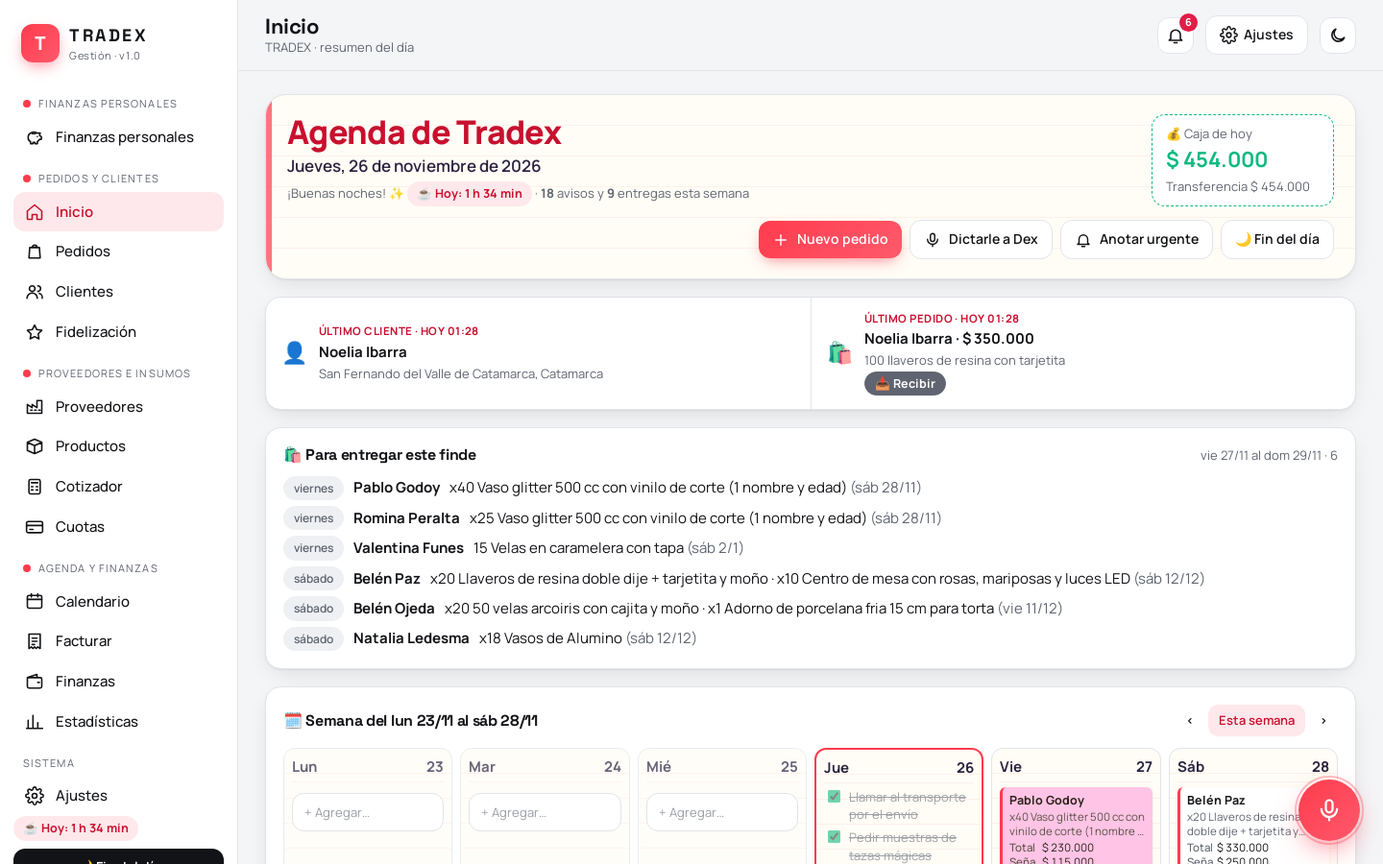
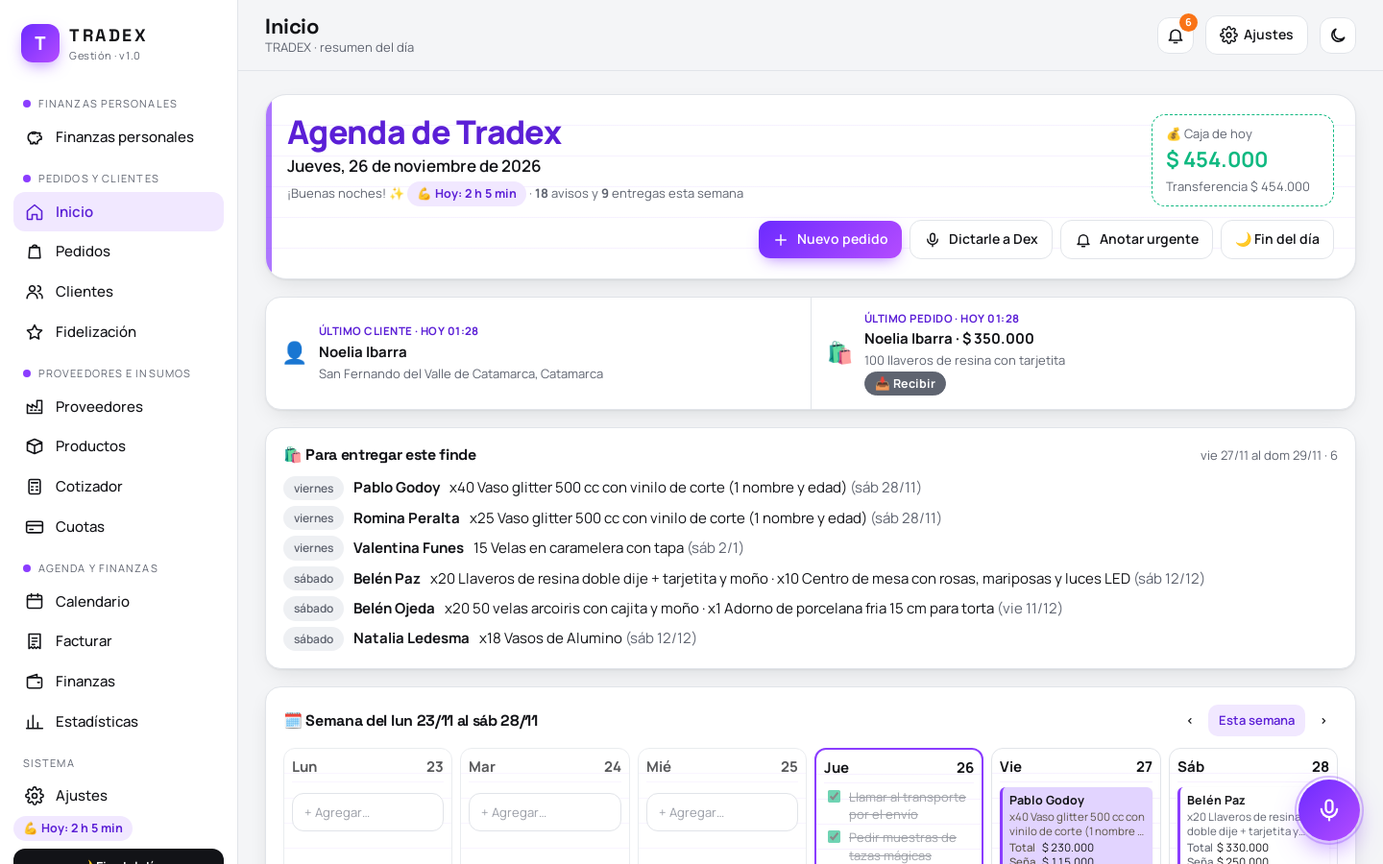
style(marca): degradado violeta | morado | sin rojo
- Cambia el acento por un degradado violeta a morado sobre grafito
- Pasa los avisos urgentes a naranja y quita el fondo crema de la agenda
- Actualiza ícono, color del navegador, comprobante y encabezado del asistente
- Rehace las capturas y la sección de marca del README

diff --git a/public/css/styles.css b/public/css/styles.css
@@ -1,6 +1,6 @@
 /* ==========================================================
    TRADEX 1.0 — estilos
-   Marca: grafito + rojo señal (#FF3B4E) como único acento.
+   Marca: grafito + degradado violeta → morado (#6C2BFF → #B44CFF).
    Modo claro / oscuro. Las "paletas" por apartado comparten el mismo acento.
    ========================================================== */
 
@@ -22,7 +22,7 @@
   --border: #e1e4e9;
 
   /* semáforo de urgencia */
-  --u-red: #e11d48;
+  --u-red: #f97316; /* urgente en naranja: la marca no usa rojo */
   --u-violet: #8b5cf6;
   --u-blue: #3b82f6;
   --u-green: #16a34a;
@@ -30,12 +30,12 @@
   --warn: #f59e0b;
   --ok: #10b981;
 
-  /* acento único: rojo señal */
-  --accent: #ff3b4e;
-  --accent-2: #ff7a87;
-  --accent-ink: #c8102e;
-  --accent-soft: #ffe8eb;
-  --grad: linear-gradient(135deg, #ff3b4e 0%, #ff5a6b 100%);
+  /* acento: degradado violeta → morado */
+  --accent: #8b3dff;
+  --accent-2: #c08cff;
+  --accent-ink: #5b1fd6;
+  --accent-soft: #f1e8ff;
+  --grad: linear-gradient(135deg, #6c2bff 0%, #b44cff 100%);
 }
 
 /* modo oscuro: grafito */
@@ -279,7 +279,7 @@ tbody tr:hover { background: var(--surface-2); }
 .cal .num { font-weight: 700; font-size: 13px; display: flex; justify-content: space-between; align-items: center; }
 .cal .ev { font-size: 11px; padding: 2px 6px; border-radius: 6px; white-space: nowrap; overflow: hidden; text-overflow: ellipsis; font-weight: 600; }
 .ev.t-delivery { background: color-mix(in srgb, var(--u-violet) 18%, transparent); color: var(--u-violet); }
-.ev.t-event { background: color-mix(in srgb, #ff3b4e 16%, transparent); color: #c8102e; }
+.ev.t-event { background: color-mix(in srgb, #8b3dff 16%, transparent); color: #5b1fd6; }
 .ev.t-order { background: color-mix(in srgb, var(--u-red) 14%, transparent); color: var(--u-red); }
 .ev.t-receive { background: color-mix(in srgb, #0891b2 16%, transparent); color: #0891b2; }
 .ev.t-task { background: color-mix(in srgb, var(--u-green) 16%, transparent); color: var(--u-green); }
@@ -346,10 +346,10 @@ tbody tr:hover { background: var(--surface-2); }
 .fab {
   position: fixed; right: 24px; bottom: 24px; z-index: 40; width: 64px; height: 64px; border-radius: 50%;
   border: 0; background: var(--grad); color: #fff; cursor: pointer;
-  box-shadow: 0 12px 30px -8px rgb(255 59 78 / .7); display: grid; place-items: center;
+  box-shadow: 0 12px 30px -8px rgb(139 61 255 / .7); display: grid; place-items: center;
 }
 .fab svg { width: 28px; height: 28px; }
-.fab::before { content: ""; position: absolute; inset: -6px; border-radius: 50%; border: 2px solid rgb(255 59 78 / .4); animation: ring 2.4s infinite; }
+.fab::before { content: ""; position: absolute; inset: -6px; border-radius: 50%; border: 2px solid rgb(139 61 255 / .4); animation: ring 2.4s infinite; }
 @keyframes ring { 0% { transform: scale(.9); opacity: 1; } 100% { transform: scale(1.25); opacity: 0; } }
 
 .assistant {
@@ -357,13 +357,13 @@ tbody tr:hover { background: var(--surface-2); }
   background: var(--surface); border: 1px solid var(--border); border-radius: 24px; box-shadow: var(--shadow-lg);
   z-index: 50; display: flex; flex-direction: column; overflow: hidden; animation: pop .2s;
 }
-.as-head { background: #121317; color: #fff; padding: 14px 16px; display: flex; align-items: center; gap: 10px; }
+.as-head { background: var(--grad); color: #fff; padding: 14px 16px; display: flex; align-items: center; gap: 10px; }
 .as-head .av { width: 38px; height: 38px; border-radius: 50%; background: rgb(255 255 255 / .2); display: grid; place-items: center; font-weight: 800; }
 .as-head .btn { background: rgb(255 255 255 / .16); color: #fff; border: 0; }
 .as-msgs { flex: 1; overflow-y: auto; padding: 14px; display: flex; flex-direction: column; gap: 10px; }
 .msg { max-width: 86%; padding: 10px 13px; border-radius: 16px; font-size: 14px; white-space: pre-wrap; }
 .msg.bot { background: var(--surface-2); border-bottom-left-radius: 4px; }
-.msg.me { background: #ff3b4e; color: #fff; align-self: flex-end; border-bottom-right-radius: 4px; }
+.msg.me { background: #8b3dff; color: #fff; align-self: flex-end; border-bottom-right-radius: 4px; }
 .msg.typing { color: var(--muted); font-style: italic; }
 .as-draft { border-top: 1px solid var(--border); background: var(--surface-2); padding: 10px 14px; font-size: 13px; max-height: 170px; overflow-y: auto; }
 .as-draft .kv { display: grid; grid-template-columns: 110px 1fr; gap: 2px 8px; }
@@ -374,7 +374,7 @@ tbody tr:hover { background: var(--surface-2); }
 .as-input input { border-radius: 99px; }
 .mic { width: 46px; height: 46px; border-radius: 50%; border: 0; background: var(--grad); color: #fff; cursor: pointer; display: grid; place-items: center; flex: none; }
 .mic svg { width: 22px; height: 22px; }
-.mic.rec { background: var(--u-red); animation: pulse 1s infinite; }
+.mic.rec { background: #5b1fd6; animation: pulse 1s infinite; }
 @keyframes pulse { 50% { box-shadow: 0 0 0 10px rgb(225 29 72 / .15); } }
 .suggest { display: flex; gap: 6px; flex-wrap: wrap; padding: 0 14px 10px; }
 .suggest button { font-size: 12px; border: 1px solid var(--border); background: var(--surface); border-radius: 99px; padding: 5px 10px; cursor: pointer; }
@@ -566,7 +566,7 @@ input:focus, select:focus, textarea:focus { border-color: var(--accent); box-sha
 .hero .work-chip { background: rgb(255 255 255 / .2); color: #fff; }
 .eod-btn { background: #121317; color: #fff; border: 0; }
 .eod-btn:hover { filter: brightness(1.1); background: #121317; }
-.eod-hero { display: flex; gap: 16px; align-items: center; background: linear-gradient(135deg, #121317 55%, #3a1018); color: #fff; border-radius: 18px; padding: 18px 20px; }
+.eod-hero { display: flex; gap: 16px; align-items: center; background: linear-gradient(135deg, #121317 55%, #2a1257); color: #fff; border-radius: 18px; padding: 18px 20px; }
 .eod-emoji { font-size: 48px; }
 .eod-hours { font-size: 24px; font-weight: 800; }
 .eod-status { border-radius: 12px; padding: 10px 12px; font-weight: 600; font-size: 14px; }
@@ -616,7 +616,7 @@ label.field:has(#c-hint) { position: relative; }
 /* 🔔 campanita */
 .bell-top { position: relative; }
 .bell-top svg { width: 20px; height: 20px; }
-.bell-top .count { position: absolute; top: -5px; right: -5px; min-width: 19px; height: 19px; padding: 0 5px; border-radius: 99px; background: #e11d48; color: #fff; font-size: 11px; font-weight: 700; display: grid; place-items: center; }
+.bell-top .count { position: absolute; top: -5px; right: -5px; min-width: 19px; height: 19px; padding: 0 5px; border-radius: 99px; background: var(--u-red); color: #fff; font-size: 11px; font-weight: 700; display: grid; place-items: center; }
 .bell-panel { position: fixed; top: 64px; right: 16px; z-index: 60; width: min(420px, calc(100vw - 32px)); max-height: calc(100vh - 90px); overflow: auto; background: var(--surface); color: var(--text); border: 1px solid var(--border); border-radius: 16px; box-shadow: 0 18px 50px rgba(0,0,0,.22); }
 .bell-head { display: flex; justify-content: space-between; align-items: baseline; gap: 8px; padding: 14px 14px 8px; }
 .bell-list { display: grid; }
@@ -627,7 +627,7 @@ label.field:has(#c-hint) { position: relative; }
 .bell-item .t { font-weight: 600; }
 .bell-item .b, .bell-item .bi-hint { font-size: 12.5px; color: var(--muted); }
 .bell-item .bi-hint { font-style: italic; }
-.bell-item.urgent { background: color-mix(in srgb, #e11d48 7%, transparent); }
+.bell-item.urgent { background: color-mix(in srgb, var(--u-red) 7%, transparent); }
 .bell-item.done .t { text-decoration: line-through; color: var(--muted); }
 .bell-item.done { opacity: .7; }
 .bell-foot { display: block; text-align: center; padding: 10px; border-top: 1px solid var(--border); font-size: 13px; font-weight: 600; color: var(--accent); text-decoration: none; }
@@ -749,8 +749,8 @@ label.field:has(#c-hint) { position: relative; }
 div.bell-item { cursor: default; }
 
 /* ---------- Inicio: Agenda de Tradex (estilo agenda de papel) ---------- */
-:root { --paper: #fffdf6; --paper-line: rgb(255 59 78 / .07); --paper-ink: #2b2340; --hl-today: #fff27a; --hl-tomorrow: #ffc4e6; --hl-late: #ffcf99; --hl-ink: #2a2116; }
-[data-mode="dark"] { --paper: #221b2f; --paper-line: rgb(255 255 255 / .05); --paper-ink: #f1ecff; --hl-today: rgb(255 238 88 / .85); --hl-tomorrow: rgb(255 170 220 / .85); --hl-late: rgb(255 190 120 / .85); }
+:root { --paper: #ffffff; --paper-line: rgb(139 61 255 / .07); --paper-ink: #121317; --hl-today: #fff27a; --hl-tomorrow: #e2d4ff; --hl-late: #ffcf99; --hl-ink: #121317; }
+[data-mode="dark"] { --paper: #1a1c22; --paper-line: rgb(255 255 255 / .05); --paper-ink: #f1ecff; --hl-today: rgb(255 238 88 / .85); --hl-tomorrow: rgb(196 160 255 / .85); --hl-late: rgb(255 190 120 / .85); }
 .agenda-head { background: var(--paper); color: var(--paper-ink); border: 1px solid var(--border); border-radius: 22px; padding: 20px 22px; box-shadow: var(--shadow);
   background-image: repeating-linear-gradient(to bottom, transparent 0 31px, var(--paper-line) 31px 32px); position: relative; overflow: hidden; }
 .agenda-head::before { content: ""; position: absolute; left: 0; top: 0; bottom: 0; width: 6px; background: var(--accent); opacity: .7; }
@@ -800,7 +800,7 @@ div.bell-item { cursor: default; }
 .postit:nth-child(even) { transform: rotate(.7deg); }
 .postit .small, .postit .btn, .postit textarea { font-family: var(--font); font-size: 12px; }
 .postit.yellow { background: #fff3a6; } .postit.pink { background: #ffd1e8; } .postit.green { background: #cdf3d5; } .postit.blue { background: #cfe6ff; }
-.postit.problem { background: #ffe08a; border-top: 4px solid #e11d48; }
+.postit.problem { background: #ffe08a; border-top: 4px solid var(--u-red); }
 .postit .btn { color: #2b2416; }
 .postit .pi-text { outline: none; white-space: pre-wrap; }
 .postit .pi-x { position: absolute; top: 4px; right: 6px; border: 0; background: transparent; cursor: pointer; color: #6b5d3d; font-size: 13px; }
@@ -810,7 +810,7 @@ div.bell-item { cursor: default; }
 .pi-color.yellow { background: #fff3a6; } .pi-color.pink { background: #ffd1e8; } .pi-color.green { background: #cdf3d5; } .pi-color.blue { background: #cfe6ff; }
 .pi-color.on { border-color: var(--accent); }
 /* post-it chico dentro de un aviso o del detalle del pedido */
-.postit.sm { min-height: 0; font-size: 13px; padding: 8px 10px; background: #fff3a6; transform: none; border-top: 3px solid #e11d48; margin: 4px 0; }
+.postit.sm { min-height: 0; font-size: 13px; padding: 8px 10px; background: #fff3a6; transform: none; border-top: 3px solid var(--u-red); margin: 4px 0; }
 .postit.edit { min-height: 0; background: #fff3a6; transform: none; width: 100%; padding: 8px; }
 .postit.edit textarea { width: 100%; border: 0; background: transparent; color: #2b2416; font-size: 13px; }
 .btn.warn { color: #b45309; }
@@ -832,7 +832,7 @@ input.padd:focus { border-bottom-color: var(--accent); }
 .paper-card { background: var(--paper); color: var(--paper-ink); background-image: repeating-linear-gradient(to bottom, transparent 0 31px, var(--paper-line) 31px 32px); border-left: 6px solid color-mix(in srgb, var(--accent) 70%, transparent); }
 .paper-card .pc-date { font-size: 14px; font-weight: 600; color: var(--muted); margin-top: 2px; }
 .paper-card .bell-item { background: transparent; }
-.paper-card .bell-item.urgent { background: color-mix(in srgb, #e11d48 6%, transparent); }
+.paper-card .bell-item.urgent { background: color-mix(in srgb, var(--u-red) 6%, transparent); }
 .pc-sub { display: flex; justify-content: space-between; align-items: baseline; margin: 16px 0 8px; padding-top: 10px; border-top: 1.5px dashed var(--border); }
 .day-agenda .bell-item { padding: 10px 0; }
 .day-agenda .bell-item:first-child { border-top: 0; }
@@ -945,8 +945,8 @@ input.padd:focus { border-bottom-color: var(--accent); }
 .pf-legend i.due { background: color-mix(in srgb, var(--warn) 50%, transparent); }
 .pf-legend i.paidc { background: color-mix(in srgb, var(--ok) 50%, transparent); }
 .pf-legend i.late { background: color-mix(in srgb, var(--u-red) 50%, transparent); }
-.pf-chart { position: relative; --pf-inc: #059669; --pf-out: #e11d48; }
-[data-mode="dark"] .pf-chart, [data-mode="dark"] .pf-legend { --pf-inc: #34d399; --pf-out: #fb7185; }
+.pf-chart { position: relative; --pf-inc: #059669; --pf-out: #f97316; }
+[data-mode="dark"] .pf-chart, [data-mode="dark"] .pf-legend { --pf-inc: #34d399; --pf-out: #fb923c; }
 .pf-chart svg { width: 100%; height: auto; display: block; overflow: visible; }
 .pf-grid { stroke: var(--border); stroke-width: 1; }
 .pf-grid.base { stroke: var(--muted); stroke-opacity: .5; }
@@ -963,7 +963,7 @@ input.padd:focus { border-bottom-color: var(--accent); }
 .pf-hit { fill: transparent; cursor: crosshair; }
 .pf-tip { position: absolute; top: 0; transform: translateX(-50%); background: var(--surface); border: 1px solid var(--border); border-radius: 12px; box-shadow: var(--shadow-lg); padding: 8px 12px; font-size: 13px; pointer-events: none; white-space: nowrap; display: grid; gap: 2px; z-index: 3; }
 .pf-tip[hidden] { display: none; }
-.pf-legend { --pf-inc: #059669; --pf-out: #e11d48; }
+.pf-legend { --pf-inc: #059669; --pf-out: #f97316; }
 i.pf-sw, .pf-legend i.pf-sw { display: inline-block; width: 18px; height: 0; border-radius: 0; background: none; border-top: 2px solid var(--pf-inc); vertical-align: middle; margin-right: 4px; }
 i.pf-sw.out, .pf-legend i.pf-sw.out { border-top: 2px dashed var(--pf-out); }
 .pf-quick { display: flex; flex-direction: column; gap: 10px; }
@@ -1062,10 +1062,10 @@ i.pf-sw.out, .pf-legend i.pf-sw.out { border-top: 2px dashed var(--pf-out); }
 .vip-dot span { font-size: 13px; font-weight: 600; }
 .vip-dot small { font-size: 11px; font-weight: 800; line-height: 1.1; color: #7a1f45; padding: 2px; }
 .vip-dot.prize { border-color: #d4a017; }
-.vip-dot.on { background: radial-gradient(circle at 35% 30%, #ff7a87, #ff3b4e); border-color: #ff3b4e; color: #fff; }
+.vip-dot.on { background: radial-gradient(circle at 35% 30%, #c08cff, #8b3dff); border-color: #8b3dff; color: #fff; }
 .vip-dot.on small { color: #fff; }
 .vip-foot { margin-top: 10px; font-size: 12.5px; }
-.loyal-banner { margin-top: 10px; padding: 10px 12px; border-radius: 12px; background: color-mix(in srgb, #ff3b4e 12%, var(--surface)); border: 1px dashed #db2777; }
+.loyal-banner { margin-top: 10px; padding: 10px 12px; border-radius: 12px; background: color-mix(in srgb, #8b3dff 12%, var(--surface)); border: 1px dashed #db2777; }
 .loyal-banner.on { border-style: solid; background: color-mix(in srgb, var(--ok) 12%, var(--surface)); border-color: var(--ok); }
 .loyal-row { padding: 6px 0; border-bottom: 1px solid var(--border); }
 .loyal-row:last-child { border-bottom: 0; }

diff --git a/public/js/views/personal.js b/public/js/views/personal.js
@@ -210,7 +210,7 @@ function resumen(el, again) {
 
   el.innerHTML = `<div class="stack">
     <div class="grid g4">
-      <div class="card stat"><span class="label">💵 Ingresos</span><span class="value" style="color:var(--ok)">${money(m.income)}</span><span class="hint">❤ ganancia de Tradex</span></div>
+      <div class="card stat"><span class="label">💵 Ingresos</span><span class="value" style="color:var(--ok)">${money(m.income)}</span><span class="hint">💜 ganancia de Tradex</span></div>
       <div class="card stat"><span class="label">📌 Gastos fijos</span><span class="value">${money(m.fixedTotal)}</span><span class="hint">pagaste ${money(m.fixedPaidTotal)} · faltan ${pendingFixed.length}</span></div>
       <div class="card stat"><span class="label">🧾 Gastos del día</span><span class="value">${money(m.varTotal)}</span><span class="hint">${m.vars.length} gastos ${deltaTxt(varDelta)}</span></div>
       <div class="card stat"><span class="label">${m.income ? "⚖ Te queda" : "💸 Total gastado"}</span><span class="value" style="color:${m.income && m.income - m.out < 0 ? "var(--u-red)" : "inherit"}">${money(m.income ? m.income - m.out : m.out)}</span><span class="hint">${m.income ? `gastaste ${money(m.out)}` : ""} ${deltaTxt(outDelta)}</span></div>
@@ -374,7 +374,7 @@ function bindChart(el, hist) {
       cross.setAttribute("x1", x(i)); cross.setAttribute("x2", x(i)); cross.style.display = "";
       tip.innerHTML = `<b style="text-transform:capitalize">${mLabel(h.k)}</b>
         <div><i class="pf-sw inc"></i>Ingresos <b>${money(h.income)}</b></div>
-        <div class="muted" style="padding-left:22px">❤ Tradex ${money(h.incomeOrders)}${h.incomeOther ? ` · otros ${money(h.incomeOther)}` : ""}</div>
+        <div class="muted" style="padding-left:22px">💜 Tradex ${money(h.incomeOrders)}${h.incomeOther ? ` · otros ${money(h.incomeOther)}` : ""}</div>
         <div><i class="pf-sw out"></i>Egresos <b>${money(h.out)}</b></div>
         <div class="muted" style="padding-left:22px">fijos ${money(h.fixedTotal)} · del día ${money(h.varTotal)}</div>
         <div style="border-top:1px solid var(--border);margin-top:4px;padding-top:4px">Balance <b style="color:${h.income - h.out < 0 ? "var(--u-red)" : "var(--ok)"}">${money(h.income - h.out)}</b></div>`;
@@ -684,10 +684,10 @@ function ingresos(el, again) {
   const tOrders = sum(cobros, (c) => c.amount), tGross = sum(cobros, (c) => c.gross);
   el.innerHTML = `<div class="stack">
     <div class="grid g2">
-      <div class="card stat"><span class="label">❤ Ganancia de pedidos</span><span class="value">${money(tOrders)}</span><span class="hint">cobraste ${money(tGross)} − costos de proveedor ${money(tGross - tOrders)}</span></div>
+      <div class="card stat"><span class="label">💜 Ganancia de pedidos</span><span class="value">${money(tOrders)}</span><span class="hint">cobraste ${money(tGross)} − costos de proveedor ${money(tGross - tOrders)}</span></div>
       <div class="card stat"><span class="label">Te quedó neto en ${mLabel(month)}</span><span class="value" style="color:var(--ok)">${money(tOrders)}</span></div>
     </div>
-    <div class="card"><h3>❤ Ganancia de pedidos de Tradex <span class="small muted" style="font-weight:500">· de cada seña o saldo, lo que te queda después de pagar al proveedor</span></h3>
+    <div class="card"><h3>💜 Ganancia de pedidos de Tradex <span class="small muted" style="font-weight:500">· de cada seña o saldo, lo que te queda después de pagar al proveedor</span></h3>
       ${cobros.some((c) => c.noCost) ? `<p class="small" style="margin-top:0">⚠ Hay pedidos sin costo cargado: ahí la ganancia figura igual a lo cobrado. Cargá el costo en el pedido para que sea real.</p>` : ""}
       ${cobros.length ? `<div class="table-wrap"><table><thead><tr><th>Fecha</th><th>Cliente</th><th>Pedido</th><th>Qué</th><th>Medio</th><th class="right">Cobrado</th><th class="right">Ganancia</th><th></th></tr></thead><tbody>
         ${cobros.map((c) => `<tr><td class="nowrap">${fmtDate(c.date)}</td><td><b>${esc(c.name)}</b></td><td class="small">${esc(itemsText(c.o)) || "—"}</td><td><span class="chip ${c.label === "Seña" ? "accent" : "ok"}">${c.label}</span></td><td class="small">${esc(c.method || "—")}</td><td class="right muted">${money(c.gross)}</td><td class="right"><b style="color:var(--ok)">${money(c.amount)}</b>${c.noCost ? ` <span title="Pedido sin costo cargado">⚠</span>` : ""}</td><td><a class="btn ghost sm" href="#/pedidos?id=${c.o.id}">Ver</a></td></tr>`).join("")}

diff --git a/public/js/receipt.js b/public/js/receipt.js
@@ -17,7 +17,7 @@ export function printHTML(title, inner) {
     .head { background: #121317; color: #fff; border-radius: 18px; padding: 22px 26px; display: flex; justify-content: space-between; align-items: center; }
     .logo { font-size: 30px; font-weight: 800; letter-spacing: .18em; }
     .head small { opacity: .9; display: block; }
-    h2 { font-size: 15px; color: #c8102e; margin: 22px 0 8px; text-transform: uppercase; letter-spacing: .08em; }
+    h2 { font-size: 15px; color: #5b1fd6; margin: 22px 0 8px; text-transform: uppercase; letter-spacing: .08em; }
     .grid { display: grid; grid-template-columns: 1fr 1fr; gap: 6px 24px; font-size: 14px; }
     .grid b { color: #6c6483; font-weight: 600; }
     table { width: 100%; border-collapse: collapse; font-size: 14px; }
@@ -26,7 +26,7 @@ export function printHTML(title, inner) {
     .r { text-align: right; }
     .totals { margin-left: auto; width: 300px; margin-top: 14px; font-size: 15px; }
     .totals div { display: flex; justify-content: space-between; padding: 5px 0; }
-    .totals .big { font-size: 20px; font-weight: 800; color: #c8102e; border-top: 2px dashed #ffc2c9; margin-top: 6px; padding-top: 10px; }
+    .totals .big { font-size: 20px; font-weight: 800; color: #5b1fd6; border-top: 2px dashed #d9c4ff; margin-top: 6px; padding-top: 10px; }
     .totals .saldo { background: #fdf2f8; color: #be185d; border-radius: 10px; padding: 8px 10px; font-weight: 800; }
     .dates { display: flex; gap: 12px; margin-top: 18px; }
     .dates div { flex: 1; background: #f6f4fb; border-radius: 14px; padding: 12px 14px; }
@@ -74,6 +74,6 @@ export function printReceipt(o) {
       <div><b>Entrega aproximada</b><span>${o.deadline ? fmtDate(o.deadline, { long: true }) : "—"}</span></div>
     </div>
     ${o.notes ? `<div class="note"><b>Notas:</b> ${esc(o.notes)}</div>` : ""}
-    <div class="foot">¡Gracias por elegirnos! ❤ · ${esc(s.businessName || "TRADEX")}</div>`;
+    <div class="foot">¡Gracias por elegirnos! 💜 · ${esc(s.businessName || "TRADEX")}</div>`;
   printHTML(`Comprobante ${o.client?.name || ""}`, html);
 }

diff --git a/public/js/assistant.js b/public/js/assistant.js
@@ -71,7 +71,7 @@ export function openAssistant(listen = false) {
   $("#as-tts").onclick = () => { S.tts = !S.tts; localStorage.setItem("v-tts", S.tts ? "1" : "0"); $("#as-tts").style.opacity = S.tts ? 1 : 0.5; if (!S.tts) speechSynthesis?.cancel(); };
   $("#as-form").onsubmit = (e) => { e.preventDefault(); const v = $("#as-text").value.trim(); if (v) { $("#as-text").value = ""; S.handsFree = false; send(v); } };
   if ($("#as-mic")) $("#as-mic").onclick = () => { if (S.listening) { S.handsFree = false; stopListening(); } else { S.handsFree = true; startListening(); } };
-  if (!S.messages.length) botSay(`¡Hola! Soy Dex ❤ Contame qué pasó: “Sofía me compró 40 tazas para el sábado 20”, “Insumos Sur vende ecovasos a 1300” o “pasame las 3 botellas más baratas”.`, { silent: true });
+  if (!S.messages.length) botSay(`¡Hola! Soy Dex 💜 Contame qué pasó: “Sofía me compró 40 tazas para el sábado 20”, “Insumos Sur vende ecovasos a 1300” o “pasame las 3 botellas más baratas”.`, { silent: true });
   else drawMessages();
   drawDraft();
   drawSuggestions();
@@ -132,7 +132,7 @@ function botSay(text, { html = "", silent = false } = {}) {
 function speak(text) {
   if (!S.tts || !("speechSynthesis" in window)) { if (S.handsFree && S.intent !== "none") setTimeout(startListening, 300); return; }
   speechSynthesis.cancel();
-  const u = new SpeechSynthesisUtterance(text.replace(/[❤✨🛍📌🏭✅⚠🔎]/gu, ""));
+  const u = new SpeechSynthesisUtterance(text.replace(/[💜✨🛍📌🏭✅⚠🔎]/gu, ""));
   u.lang = "es-AR";
   const voices = speechSynthesis.getVoices();
   u.voice = voices.find((v) => v.lang === "es-AR") || voices.find((v) => v.lang === "es-US") || voices.find((v) => v.lang?.startsWith("es")) || null;

diff --git a/public/js/app.js b/public/js/app.js
@@ -39,7 +39,7 @@ const ROUTES = [
   { path: "estadisticas", label: "Estadísticas", icon: "chart", palette: "aqua", group: "Agenda y finanzas", view: stats },
   { path: "ajustes", label: "Ajustes", icon: "cog", palette: "violet", group: null, view: config },
 ];
-const GROUP_COLOR = { "Pedidos y clientes": "#ff3b4e", "Proveedores e insumos": "#ff3b4e", "Agenda y finanzas": "#ff3b4e", "Finanzas personales": "#ff3b4e" };
+const GROUP_COLOR = { "Pedidos y clientes": "#8b3dff", "Proveedores e insumos": "#8b3dff", "Agenda y finanzas": "#8b3dff", "Finanzas personales": "#8b3dff" };
 const MOBILE = ["", "pedidos", "productos", "cuotas", "calendario"];
 
 let current = null;
@@ -127,7 +127,7 @@ export function render() {
   const { route, params } = current;
   document.documentElement.dataset.palette = route.palette;
   const meta = document.querySelector('meta[name="theme-color"]');
-  meta.content = "#ff3b4e";
+  meta.content = "#8b3dff";
   const view = $("#view");
   const head = route.view.render(view, params) || {};
   $("#page-title").textContent = head.title || route.label;

diff --git a/public/js/db.js b/public/js/db.js
@@ -213,7 +213,7 @@ export const DEFAULT_SETTINGS = {
   iibb: 0, // % de retención de Ingresos Brutos, si te la aplican (revisalo en tus extractos)
   extraHolidays: [],
   waTemplates: [
-    { name: "Pedido listo", text: "Hola {nombre}! ❤ Te quería avisar que mañana estaría listo tu pedido, lo podés retirar por {retiro}. Avisame a qué hora te viene mejor 😊" },
+    { name: "Pedido listo", text: "Hola {nombre}! 💜 Te quería avisar que mañana estaría listo tu pedido, lo podés retirar por {retiro}. Avisame a qué hora te viene mejor 😊" },
     { name: "Recordar saldo", text: "Hola {nombre}! ¿Cómo estás? Te recuerdo que el saldo de tu pedido es de {saldo}. Podés transferir al alias que te pasé. ¡Gracias! ✨" },
     { name: "Pedido despachado", text: "Hola {nombre}! Tu pedido ya fue despachado 📦 Apenas tenga el número de seguimiento te lo paso." },
     { name: "Confirmar seña", text: "Hola {nombre}! Recibí tu seña de {sena} 🙌 Tu pedido para el {evento} ya está en marcha. Total {total}, saldo {saldo}." },

diff --git a/public/js/utils.js b/public/js/utils.js
@@ -125,7 +125,7 @@ export const statusOf = (k) => STATUSES.find((s) => s.key === k) || STATUSES[0];
 export const statusKey = (k) => (STATUSES.some((s) => s.key === k) ? k : "pedir");
 // Cada estado tiene su fondo y una letra que contrasta
 // solo Pedir (rojo) y Recibir (morado) tienen fondo; Entregar y Entregado van sin color
-const ST_BG = { pedir: "background-color:#dc2626;color:#fff;border-color:#dc2626", esperando: "background-color:#5f6470;color:#fff;border-color:#5f6470" };
+const ST_BG = { pedir: "background-color:#f97316;color:#fff;border-color:#f97316", esperando: "background-color:#5f6470;color:#fff;border-color:#5f6470" };
 export const statusStyle = (k) => ST_BG[statusKey(k)] || "background-color:transparent;color:inherit";
 export const statusPill = (k, label) => `<span class="st-pill" style="${statusStyle(k)}">${esc(label || statusOf(k).label)}</span>`;
 export const BEFORE_SUPPLIER = ["senado", "pagado", "disenar", "pagar", "pedir"];

diff --git a/public/js/views/quote.js b/public/js/views/quote.js
@@ -175,7 +175,7 @@ export function render(el) {
         <label class="field">Otro % (opcional)<input type="number" id="q-mk" min="0" value="${state.manualMarkup}" placeholder="Automático"></label>
       </div>
     </div>
-    <div class="card" style="position:sticky;top:90px"><h3>❤ Resultado</h3><div class="price-box" id="q-result"></div></div>
+    <div class="card" style="position:sticky;top:90px"><h3>💜 Resultado</h3><div class="price-box" id="q-result"></div></div>
   </div>
   <div class="card" style="margin-top:18px"><div class="card-head"><h3>📚 Historial de cotizaciones</h3><span class="small muted">${db.all("quotes").length} guardadas</span></div>
     <div class="search" style="margin-bottom:10px">${icon("search")}<input type="search" id="q-hsearch" value="${esc(state.hq)}" placeholder="Buscar por cliente, producto, proveedor o fecha (ej: Sofía, mochila, 16/11)…"></div>

diff --git a/public/js/views/finance.js b/public/js/views/finance.js
@@ -71,7 +71,7 @@ function calc(el) {
       <label class="field">Unidades (para empaque y etiquetas)<input type="number" id="k-qty" min="0" value="1"></label>
       <label class="field">% de ganancia deseado<input type="number" id="k-pct" min="0" placeholder="Automático: ${s.markup}% (o ${s.markupHigh}% si supera ${money(s.markupThreshold)})"></label>
     </div>
-    <div class="card"><h3>❤ Precio al cliente</h3><div class="price-box" id="k-out"></div></div>
+    <div class="card"><h3>💜 Precio al cliente</h3><div class="price-box" id="k-out"></div></div>
   </div>`;
   const draw = () => {
     const cost = Number($("#k-cost", el).value) || 0, ship = Number($("#k-ship", el).value) || 0, qty = Number($("#k-qty", el).value) || 0;

diff --git a/public/index.html b/public/index.html
@@ -4,7 +4,7 @@
   <meta charset="utf-8" />
   <meta name="viewport" content="width=device-width, initial-scale=1, viewport-fit=cover" />
   <title>TRADEX · Gestión</title>
-  <meta name="theme-color" content="#ff3b4e" />
+  <meta name="theme-color" content="#8b3dff" />
   <link rel="manifest" href="/manifest.webmanifest" />
   <link rel="icon" href="/icons/icon.svg" type="image/svg+xml" />
   <link rel="apple-touch-icon" href="/icons/icon.svg" />

diff --git a/README.md b/README.md
@@ -97,4 +97,4 @@ public/js/views/     una vista por sección
 
 ## Marca
 
-Grafito con **rojo señal `#FF3B4E`** como único acento; tipografías Space Grotesk y Manrope.
+Grafito y gris frío con un **degradado violeta → morado** (`#6C2BFF` → `#B44CFF`); tipografías Space Grotesk y Manrope.
